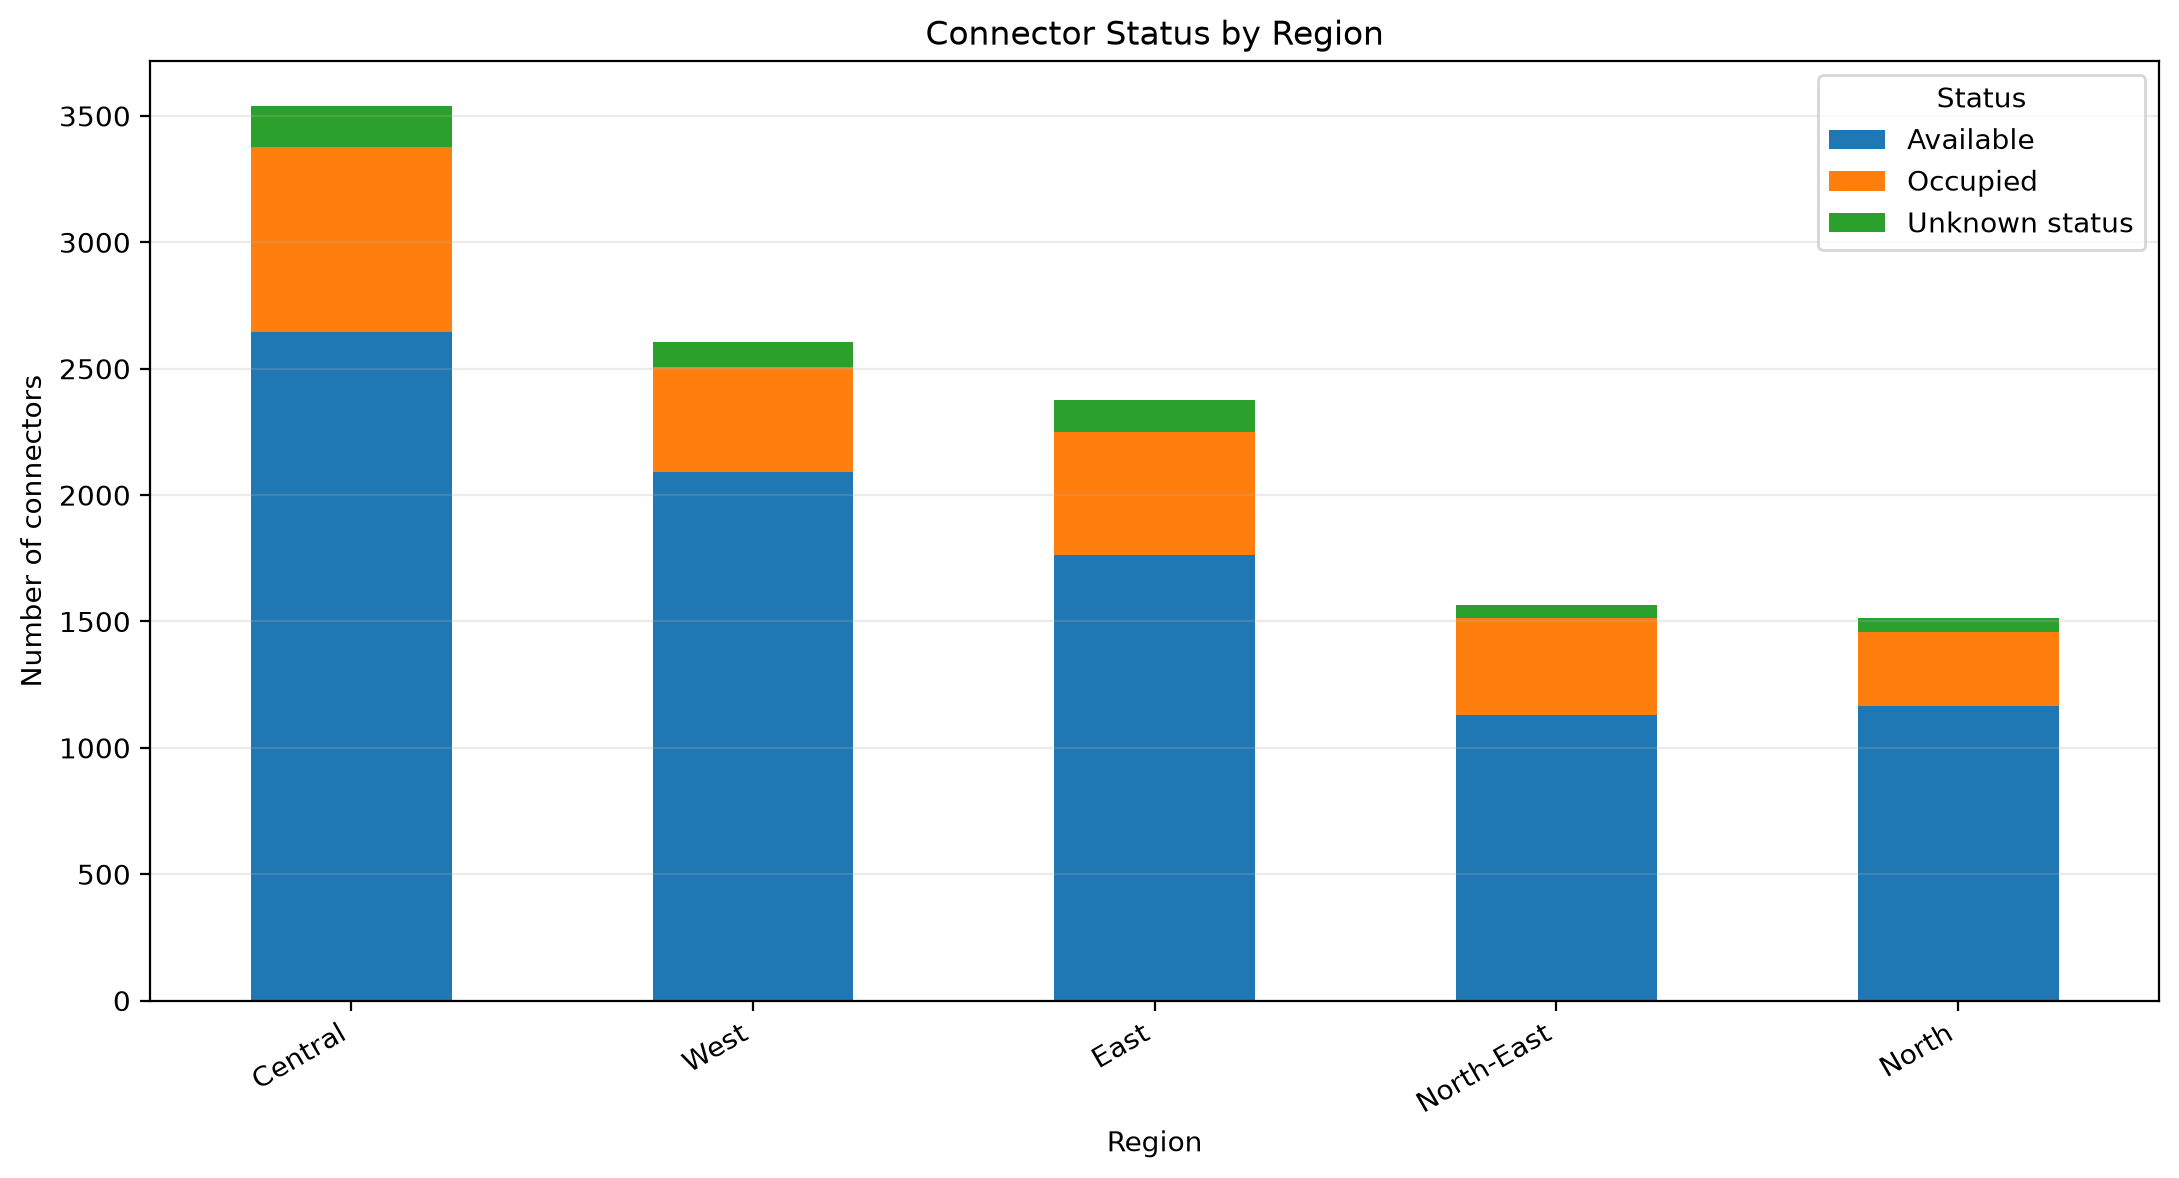
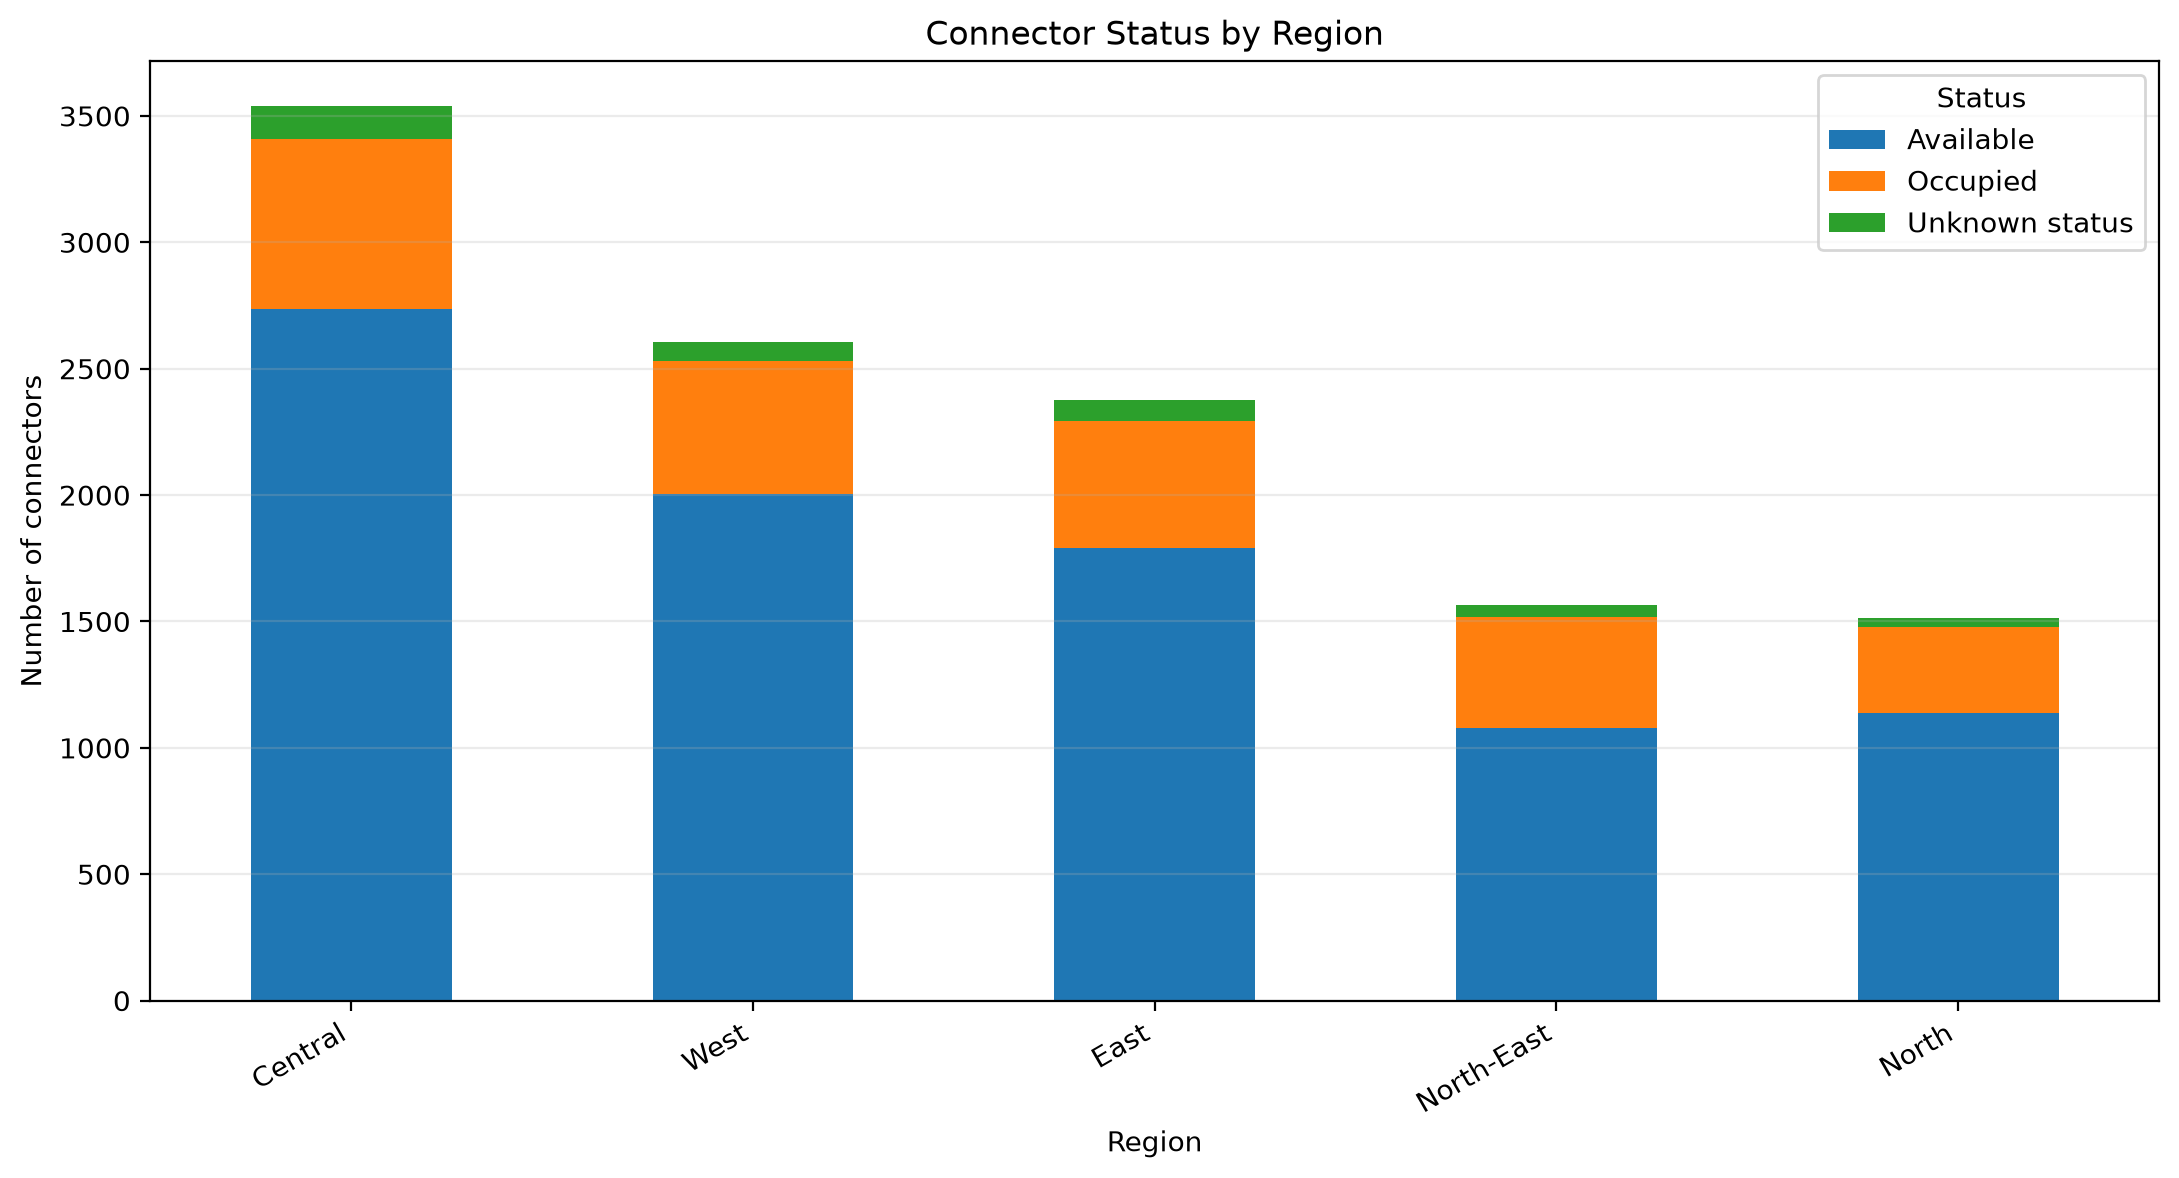
test docker (dagster) for local  access

diff --git a/sg-ev/dagster/sg_ev_dagster/definitions.py b/sg-ev/dagster/sg_ev_dagster/definitions.py
@@ -1,26 +1,43 @@
 
+import os
 import subprocess
 import sys
+from pathlib import Path
 
-from dagster import (
-    Definitions,
-    ScheduleDefinition,
-    job,
-    op,
-)
+from dagster import Definitions, job, op
 
-PROJECT_ROOT = "/opt/sg-ev"
-DBT_PROJECT = f"{PROJECT_ROOT}/dbt/sg_ev"
-DBT_PROFILES = "/opt/dagster/.dbt"
-ANALYTICS_SCRIPT = f"{PROJECT_ROOT}/analytics/ev_analysis.py"
+
+# Resolve the project root from this file's location.
+# Local: /home/eric/NTU_DSAI/Project_2/sg-ev
+# Docker: /opt/sg-ev
+PROJECT_ROOT = Path(
+    os.environ.get(
+        "SG_EV_PROJECT_ROOT",
+        str(Path(__file__).resolve().parents[2]),
+    )
+).resolve()
+
+DBT_PROJECT = PROJECT_ROOT / "dbt" / "sg_ev"
+
+# Local default: ~/.dbt
+# Docker can override this with DBT_PROFILES_DIR=/opt/dagster/.dbt
+DBT_PROFILES = Path(
+    os.environ.get(
+        "DBT_PROFILES_DIR",
+        str(Path.home() / ".dbt"),
+    )
+).expanduser()
+
+ANALYTICS_SCRIPT = PROJECT_ROOT / "analytics" / "ev_analysis.py"
+INGESTION_SCRIPT = PROJECT_ROOT / "ingestion" / "lta_ev_batch.py"
 
 
 @op
 def ingest_lta_batch() -> bool:
     """Refresh the current LTA EV charging snapshot."""
     subprocess.run(
-        [sys.executable, f"{PROJECT_ROOT}/ingestion/lta_ev_batch.py"],
-        cwd=PROJECT_ROOT,
+        [sys.executable, str(INGESTION_SCRIPT)],
+        cwd=str(PROJECT_ROOT),
         check=True,
     )
     return True
@@ -38,11 +55,11 @@ def run_dbt_build(ingestion_succeeded: bool) -> bool:
         [
             "dbt",
             "build",
-            "--project-dir", DBT_PROJECT,
-            "--profiles-dir", DBT_PROFILES,
+            "--project-dir", str(DBT_PROJECT),
+            "--profiles-dir", str(DBT_PROFILES),
             "--target", "dev",
         ],
-        cwd=DBT_PROJECT,
+        cwd=str(DBT_PROJECT),
         check=True,
     )
     return True
@@ -57,12 +74,12 @@ def run_ev_analytics(dbt_succeeded: bool) -> bool:
         )
 
     subprocess.run(
-        [sys.executable, ANALYTICS_SCRIPT],
-        cwd=PROJECT_ROOT,
+        [sys.executable, str(ANALYTICS_SCRIPT)],
+        cwd=str(PROJECT_ROOT),
         check=True,
     )
-    return True
 
+    return True
 
 @job
 def ev_charging_pipeline():
@@ -70,14 +87,8 @@ def ev_charging_pipeline():
     run_ev_analytics(dbt_succeeded)
 
 
-daily_ev_schedule = ScheduleDefinition(
-    job=ev_charging_pipeline,
-    cron_schedule="30 9 * * *",
-    execution_timezone="Asia/Singapore",
-)
-
-
+# Manual execution only. Cloud Scheduler owns production scheduling.
 defs = Definitions(
     jobs=[ev_charging_pipeline],
-    schedules=[daily_ev_schedule],
+    schedules=[],
 )
